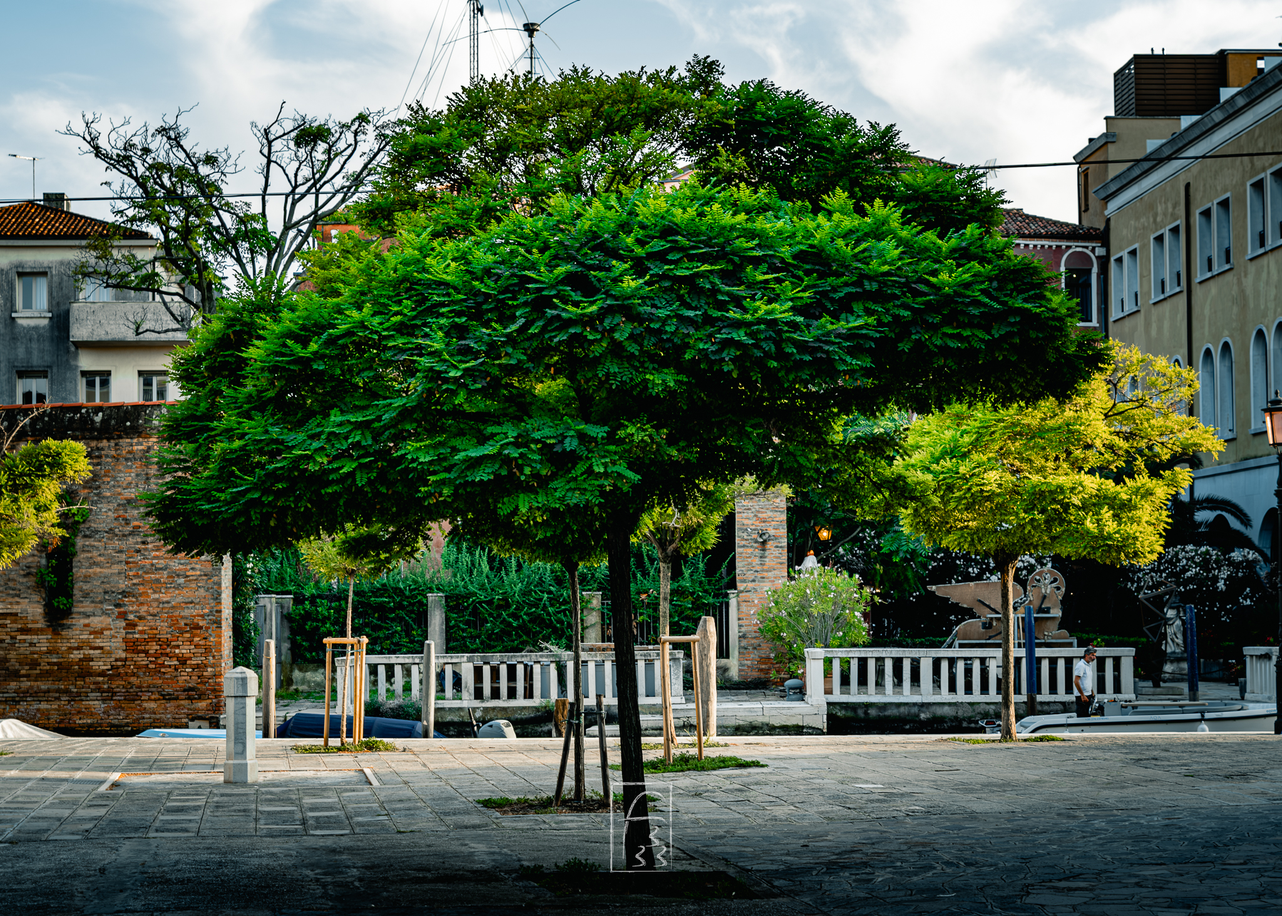
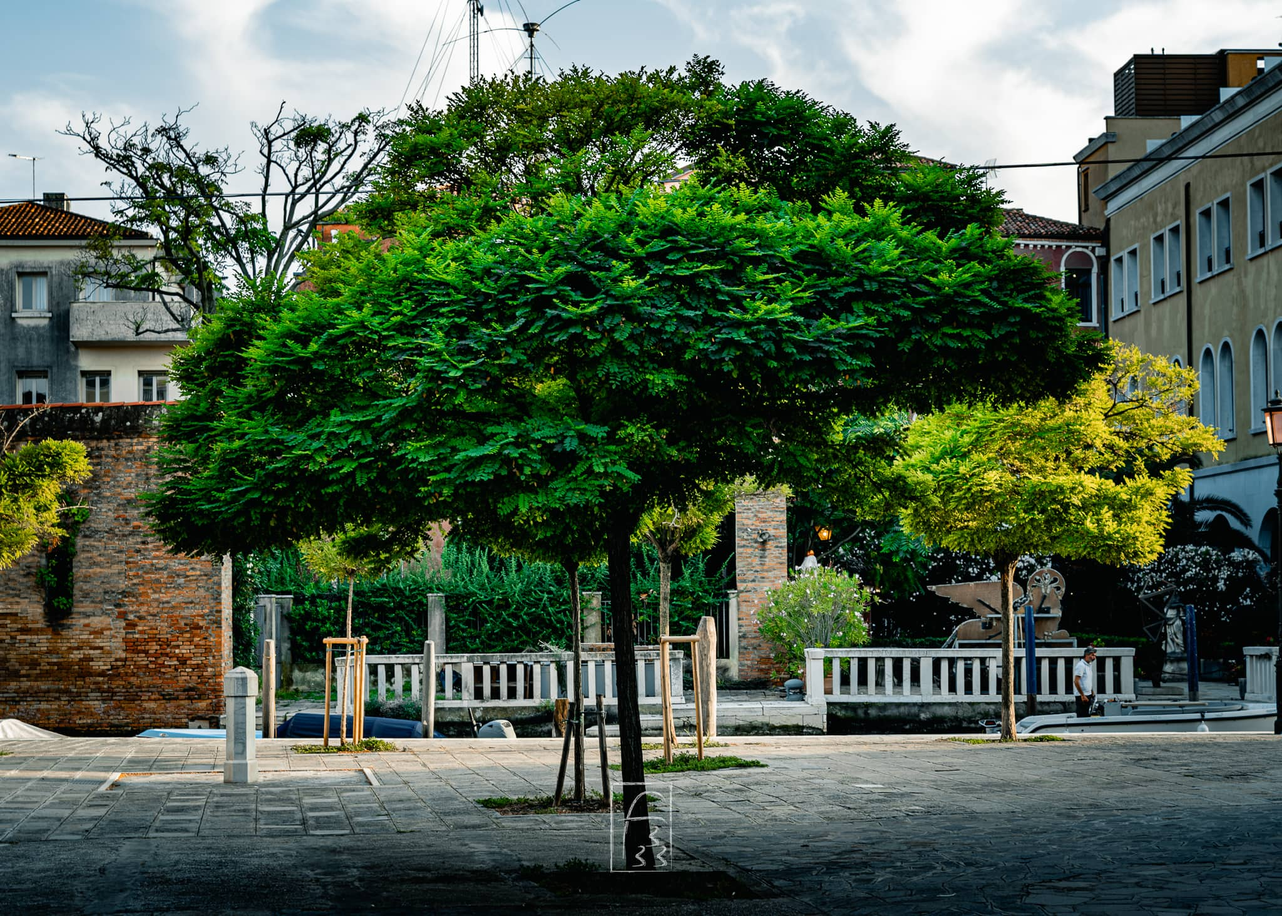
feat: Migrate "In Piedi da Solo" collection to multilingual format

diff --git a/content/in-piedi-da-solo/index.it.md b/content/in-piedi-da-solo/index.it.md
@@ -1,0 +1,22 @@
+---
+title: "In Piedi da Solo"
+date: 2026-07-10
+description: "Collezione di foto urbane in cui l'unico essere umano presente é dietro la macchina fotografica"
+params:
+  theme: light
+  featured: true
+  private: true # do not show in list, only as feature
+resources:
+  - src: cover.jpg
+    params:
+      cover: true
+      hidden: true
+draft: false
+---
+
+Questa collezione é la esposizione "In Piedi da Solo" che sará presente all [Imagina Cafe](http://www.imaginacafe.it/) (indicazioni [qui](http://www.imaginacafe.it/)) di Venezia dal 13 al 31 Agosto 2026.
+
+Collezione di foto urbane in cui l'unico essere umano presente é dietro la macchina fotografica.
+Ogni foto é un piccolo scorcio di una parte della cittá in cui il soggetto é la cittá stessa e non gli esseri umani che o non ci sono o sono relegati a ombre in lontananza.
+
+Il nome "In Piedi da Solo" descrive infatti la struttura di tutte le foto. Sono tutte foto verticali in cui l'osservatore/fotografo é solo ovvero senza altri esseri umani.

diff --git a/content/in-piedi-da-solo/index.en.md b/content/in-piedi-da-solo/index.en.md
@@ -1,0 +1,22 @@
+---
+title: "Standing up Alone"
+date: 2026-07-10
+description: "A collection of urban photos in which the only human being present is behind the camera"
+params:
+  theme: light
+  featured: true
+  private: true # do not show in list, only as feature
+resources:
+  - src: cover.jpg
+    params:
+      cover: true
+      hidden: true
+draft: false
+---
+
+This collection is the exhibition "In Piedi da Solo" (Standing Alone), which will be on display at Imagina Cafe (directions here) in Venice from August 13 to 31, 2026.
+
+A collection of urban photography where the only human being present is the one behind the camera.
+Each photo offers a small glimpse of the city, where the subject is the city itself rather than human beings—who are either entirely absent or relegated to distant shadows.
+
+Indeed, the title "In Piedi da Solo" describes the actual structure of all the photos. They are all vertical ("standing") shots in which the observer/photographer is completely alone, without any other human presence.
